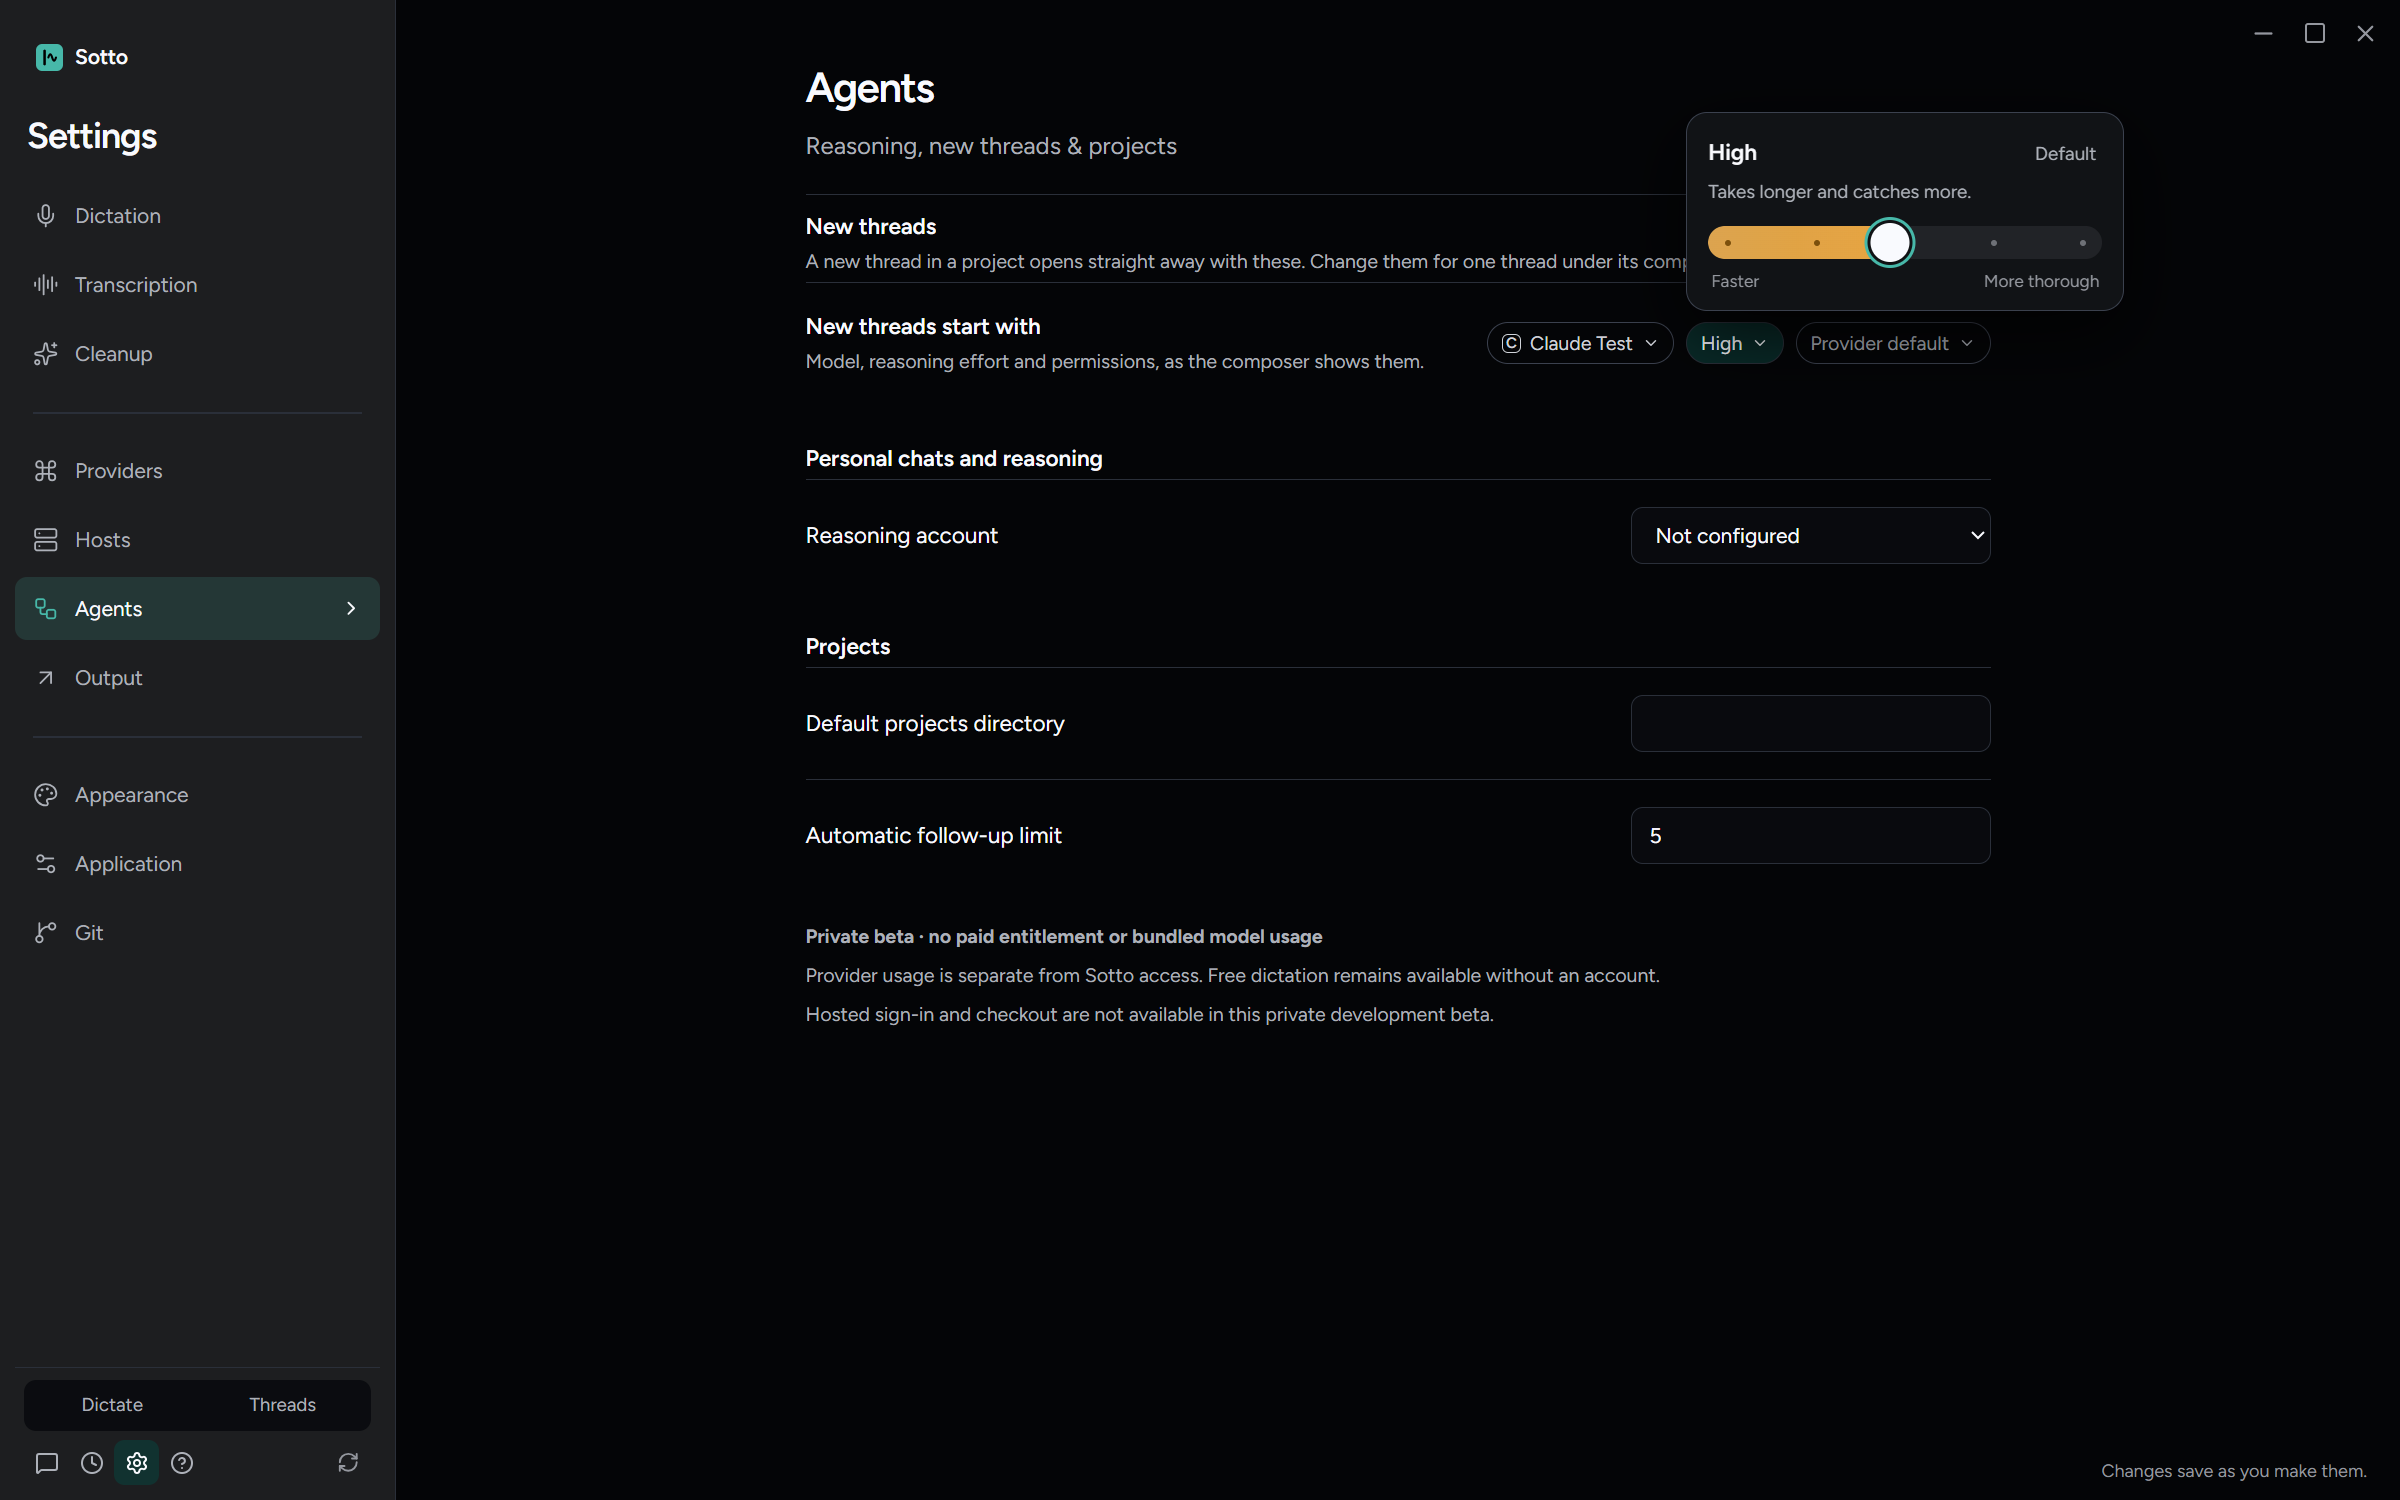
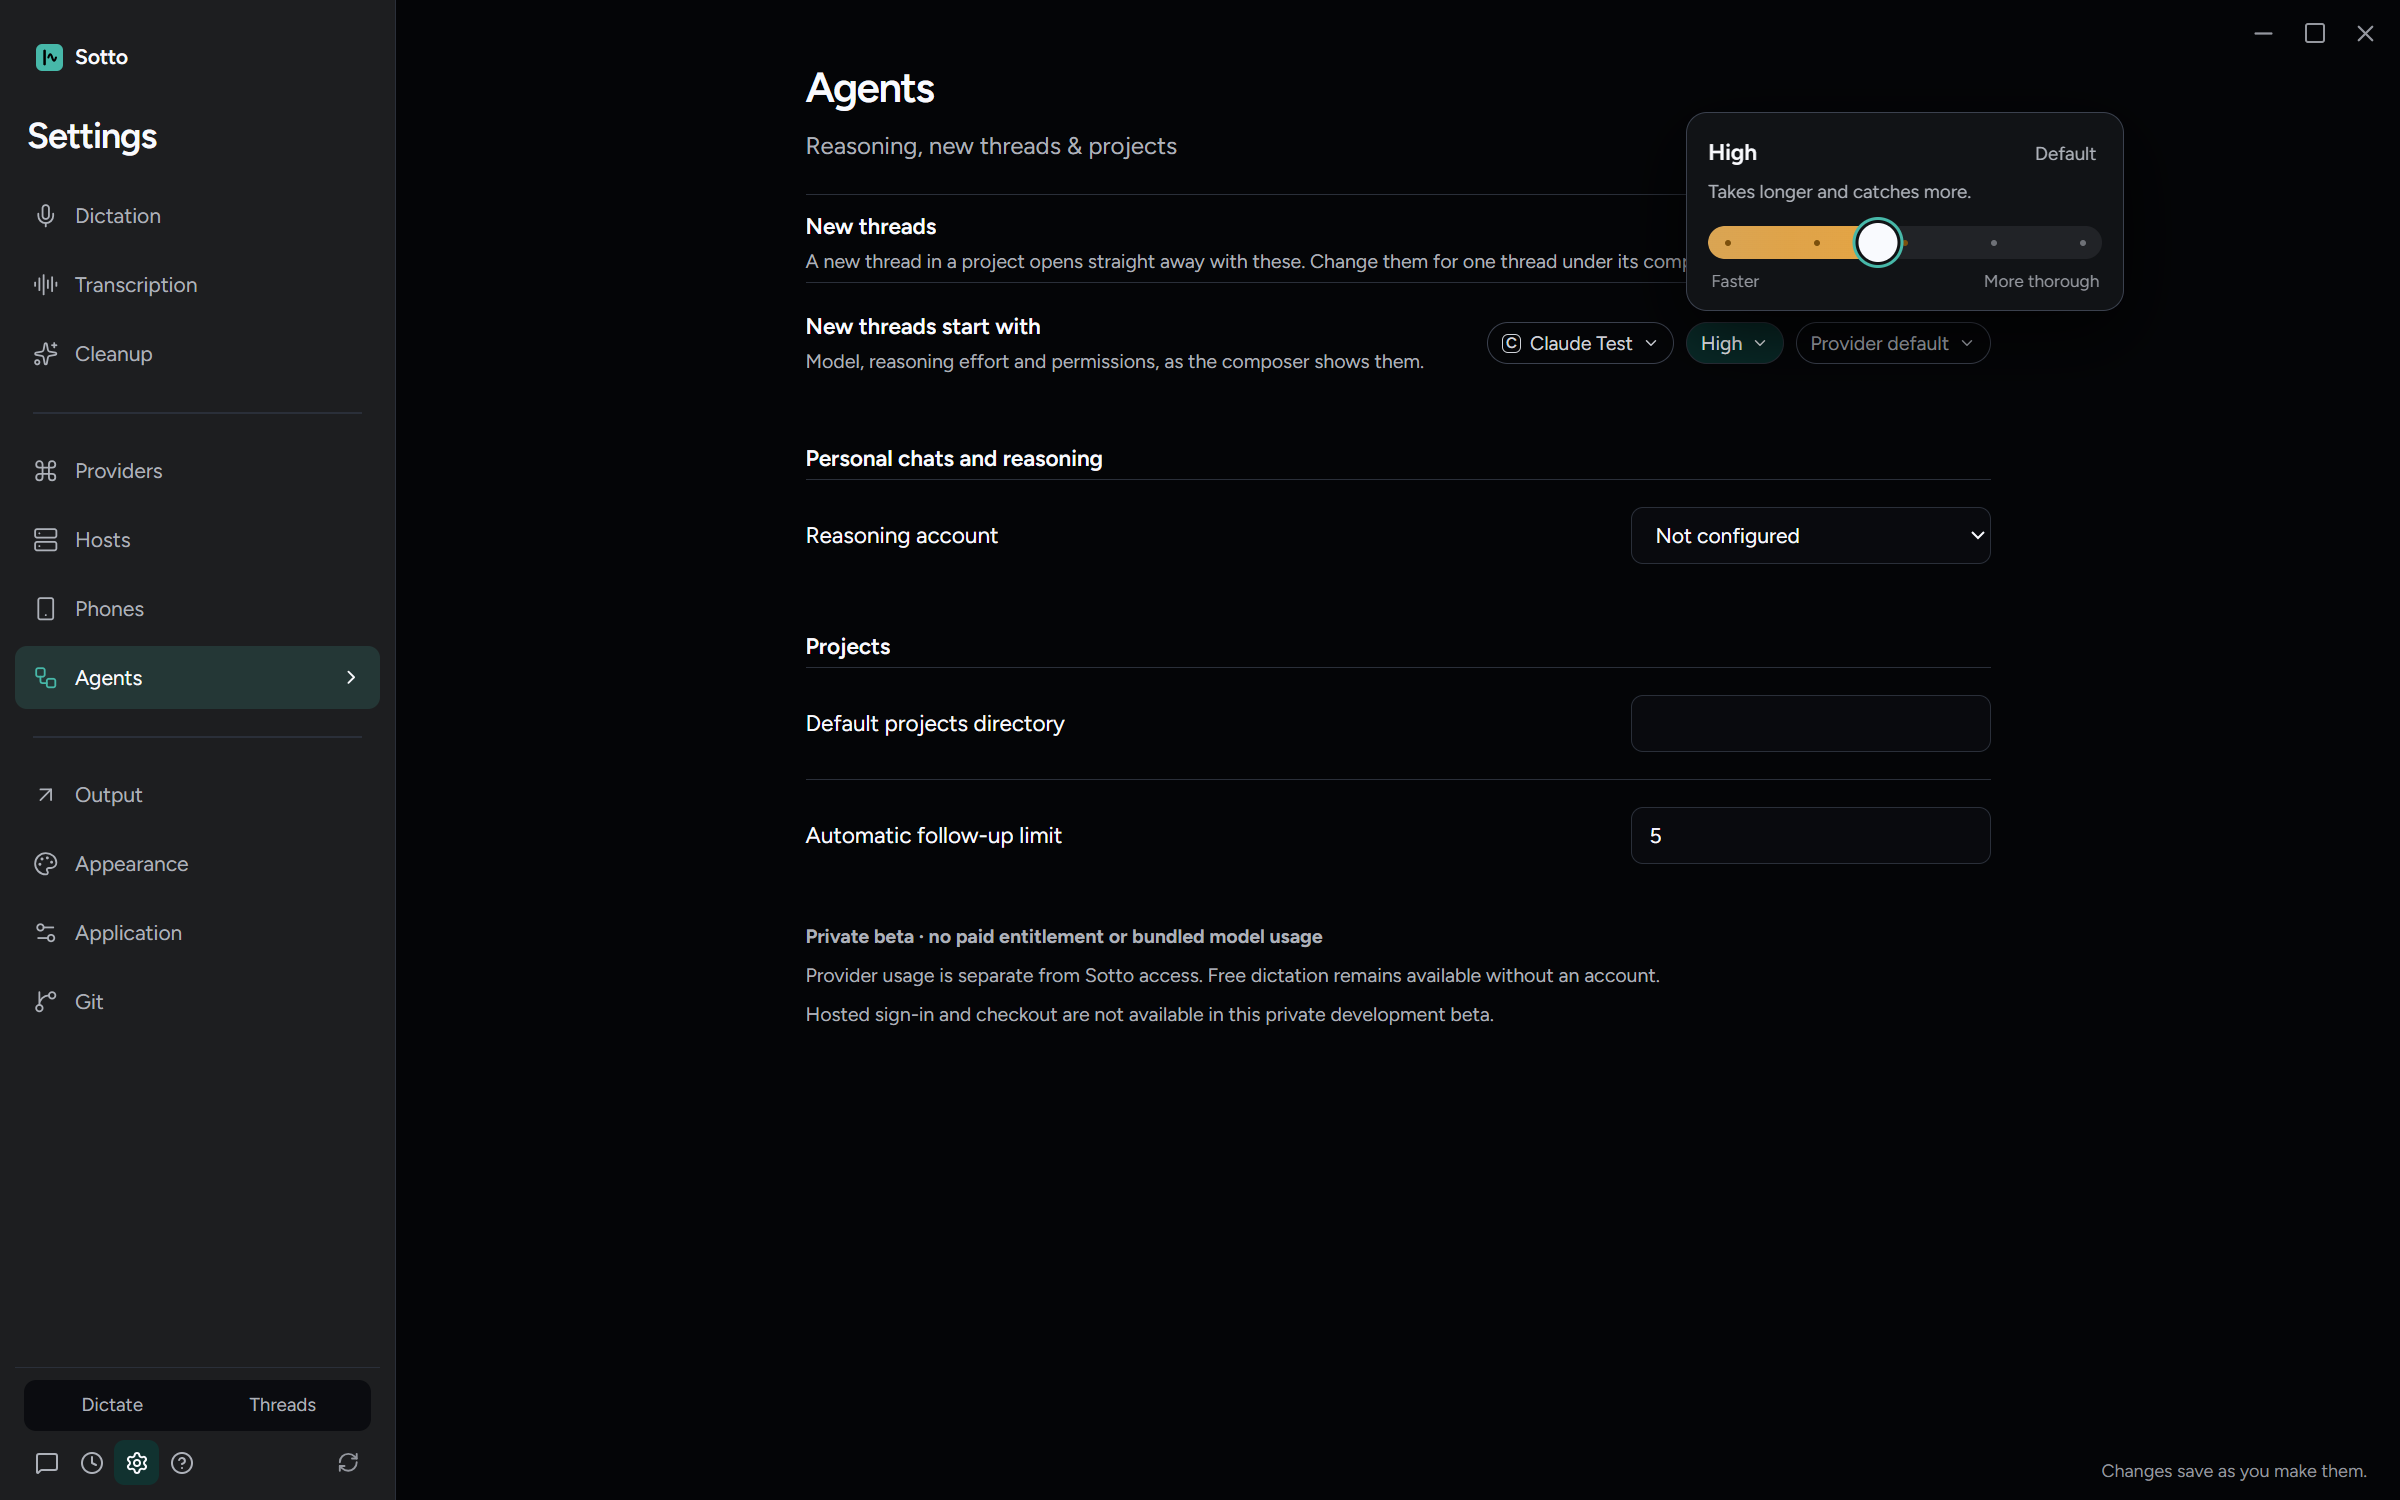
Keep unsettled option changes out of empty-thread reuse
Decline reuse while a setting is pending or unconfirmed, and while a saved effort cannot be resolved from the model catalog. Add failing-then-passing coverage for both review findings and correct the guide to describe the conditional reuse rule.

Record the main-baseline host-lock result and refreshed Electron verification after integrating current main.

diff --git a/tests/unit/renderer/unusedNewThread.test.tsx b/tests/unit/renderer/unusedNewThread.test.tsx
@@ -1,6 +1,7 @@
-import { describe, expect, it } from 'vitest'
+import { afterEach, describe, expect, it } from 'vitest'
 import { unusedNewThread } from '../../../src/renderer/src/agents/newThread'
 import { defaultAgentConfiguration, type AgentState, type AgentThread } from '../../../src/shared/agents'
+import { pendingSettingsStore, settingValues } from '../../../src/renderer/src/agents/pendingSettings'
 
 const project = { id: 'project', title: 'Project', path: 'C:/project' }
 const thread = (patch: Partial<AgentThread>): AgentThread => ({ id: 'thread', projectId: project.id, title: 'New thread', titleSource: 'default',
@@ -10,6 +11,7 @@ const state = (threads: AgentThread[]): AgentState => ({
     models: [{ id: 'codex:model', name: 'Model', provider: 'Codex', providerId: 'codex', ready: true }] } } as unknown as AgentState)
 
 /** Pressing New thread twice, or by accident, should not leave empty threads behind (#347). */
+afterEach(() => pendingSettingsStore.clear())
 describe('an unused new thread', () => {
   it('is found when the project already has one that was never used', () => {
     expect(unusedNewThread(state([thread({})]), project)?.id).toBe('thread')
@@ -31,6 +33,29 @@ describe('an unused new thread', () => {
     expect(unusedNewThread(current, project)).toBeUndefined()
     current.configuration.newThreadReasoningEffort = 'low'
     expect(unusedNewThread(current, project)?.id).toBe('thread')
+  })
+
+  it.each(['model', 'effort'] as const)('does not reuse a thread while its %s change is in flight', kind => {
+    const candidate = thread({ reasoningEffort: 'low' })
+    const current = state([candidate])
+    pendingSettingsStore.press(candidate.id, kind, kind === 'model' ? 'codex:other' : 'high',
+      kind === 'model' ? { modelId: 'codex:other' } : { reasoningEffort: 'high' },
+      () => new Promise(() => undefined), settingValues(current, candidate))
+    expect(unusedNewThread(current, project)).toBeUndefined()
+  })
+
+  it.each([{ modelId: 'codex:other' }, { reasoningEffort: 'high' }])('does not reuse a thread with an unconfirmed change: %j', patch => {
+    const current = state([thread({})])
+    current.unconfirmedSettings = [{ threadId: 'thread', ...patch }]
+    expect(unusedNewThread(current, project)).toBeUndefined()
+  })
+
+  it('does not reuse a thread when its saved effort cannot be resolved from the catalog', () => {
+    const current = state([thread({ reasoningEffort: 'low' })])
+    current.configuration.newThreadModelId = 'codex:model'
+    current.configuration.newThreadReasoningEffort = 'high'
+    current.host.models = []
+    expect(unusedNewThread(current, project)).toBeUndefined()
   })
 
   it('is not a thread that has been used, renamed, is running, settled or elsewhere', () => {

diff --git a/src/renderer/src/agents/newThread.ts b/src/renderer/src/agents/newThread.ts
@@ -5,6 +5,7 @@ import { nearestReasoningEffort, resolveNewThreadPermission } from '../../../sha
 import { isThreadClosed, isWorkspaceThreadSettled } from '../../../shared/threadActivity'
 import type { AgentConnection } from './AgentContext'
 import { draftThread, UNCONFIRMED_CREATION } from './draftThreads'
+import { pendingSettingsStore, unconfirmedKinds } from './pendingSettings'
 
 /** A creation on its way, handed over the moment it is issued so the thread can be shown without waiting. */
 export interface ThreadCreationStart {
@@ -41,8 +42,10 @@ export async function projectWorkingCopy(state: AgentState, project: AgentProjec
  */
 export function unusedNewThread(state: AgentState, project: AgentProject): AgentThread | undefined {
   const { modelId, selectedModel, reasoningEffort, permission } = newThreadOptions(state, project)
+  if (state.configuration.newThreadReasoningEffort && reasoningEffort === undefined) return undefined
   return state.host.threads.find(thread => thread.projectId === project.id && thread.titleSource === 'default' && thread.status === 'idle'
     && !isThreadClosed(thread) && !isWorkspaceThreadSettled(thread, project)
+    && Object.keys(pendingSettingsStore.view(thread.id).pending).length === 0 && unconfirmedKinds(state, thread.id).size === 0
     && thread.modelId === modelId && (reasoningEffort === undefined || (thread.reasoningEffort ?? selectedModel?.defaultReasoningEffort) === reasoningEffort)
     && (permission.runtimeMode === undefined || thread.runtimeMode === permission.runtimeMode)
     && (permission.providerMode === undefined || thread.providerMode === permission.providerMode)

diff --git a/docs/guide.md b/docs/guide.md
@@ -21,9 +21,9 @@ The [README](../README.md) says what Sotto is and how to install it. This guide 
 
 ### Starting a thread
 
-New work starts in Unsettled. Pressing **New thread** can reuse an empty thread only if it is still unsettled and its model and effort match the current defaults in Settings. Settled threads and empty threads with older choices stay as they were.
+New work starts in Unsettled. Pressing **New thread** can reuse an empty thread only if it is still unsettled, its known model, effort and permission choices match the current defaults in Settings, and no setting change is pending. If the saved effort cannot be resolved from the model catalog, a new thread opens instead. Settled threads and empty threads with older choices stay as they were.
 
-A thread in a project opens at once, named "New thread" and ready for your first message: the pen beside a project row, the empty Threads page's own button, and choosing a project from the sidebar's top **New thread** button (or **Ctrl+Shift+N**, **Cmd+Shift+N** on a Mac) all open one this way. Only the top button and the shortcut with no thread focused ask which project first; the pen and the empty page's button already know it. The shortcut opens a thread in the focused pane's project, or asks which project when none is focused; it does nothing while a dialog is open or a terminal has focus. If the project already has a new thread you never wrote in, it takes you back to that one instead of opening another. A creation the provider refuses says why where the sidebar shows other such errors, and nothing else is lost.
+A thread in a project opens at once, named "New thread" and ready for your first message: the pen beside a project row, the empty Threads page's own button, and choosing a project from the sidebar's top **New thread** button (or **Ctrl+Shift+N**, **Cmd+Shift+N** on a Mac) all open one this way. Only the top button and the shortcut with no thread focused ask which project first; the pen and the empty page's button already know it. The shortcut opens a thread in the focused pane's project, or asks which project when none is focused; it does nothing while a dialog is open or a terminal has focus. If the project already has an unused thread that meets those reuse conditions, it takes you back to that one instead of opening another. A creation the provider refuses says why where the sidebar shows other such errors, and nothing else is lost.
 
 A new thread starts on **New threads start with** in **Settings → Agents**: a model, a reasoning effort and a permission mode, the same chips the composer itself shows. Change any of them for one thread from its own composer once it is open; the setting only chooses what a thread starts on. A model or provider that does not offer the chosen effort or permission starts on the nearest one it does — the closest safer permission mode, and the effort at the same position among the levels offered — and Settings says so under the row when that applies to the model chosen there. A provider with its own permission profiles, such as Devin, always starts on its first profile. Personal chats and the coordinator keep their own reasoning account, model and effort, under their own heading in the same page.
 

diff --git a/docs/verification/2026-09-27-new-thread-defaults.md b/docs/verification/2026-09-27-new-thread-defaults.md
@@ -32,8 +32,14 @@ Standards: existing theme tokens and lifecycle helpers retained; no permission g
 
 Spec: new work is unsettled; reused empty work must match the current default model and known effort; managed creation uses the same model setting; Settings effort remains visible and editable. Existing settled threads are preserved.
 
+Independent review of PR #433 found two additional reuse cases: pending or unconfirmed model/effort changes could land after reuse, and a missing catalog could leave a saved effort unresolved. Five regression cases failed before the follow-up fix; the four focused files then passed all 41 tests. Reuse now declines both cases. The guide's older unconditional reuse sentence was corrected too. The repeated CSS exclusion across the two existing Settings scopes was retained rather than introducing a broader text-field refactor.
+
+After rebasing onto main and applying the review fixes, typecheck, lint and build passed again. The three related Electron specs ran together with all six tests passing. The retained screenshots were refreshed to match the current app, including the Phones navigation entry already on main.
+
 Passed: `npm run typecheck`, `npm run lint`, `npm run notices:verify` (174 components), and `npm run build`. The four focused unit files passed (35 tests); after adding the managed regression, the two affected files passed (24 tests). The two new Electron journeys passed three consecutive runs (six tests), and the Settings journey passed again with track-click coverage. All three existing effort-picker tests and the settled-folder test passed.
 
 The final `npm test -- --maxWorkers=2` run finished with 5,740 passed, 128 skipped and one failed test (437 passed files, 35 skipped, one failed). The failure was `tests/unit/main/hostLock.test.ts:112`, "gives the folder to exactly one of three hosts started together over a crashed lock": no contender acquired the lock where one was expected. `npx vitest run tests/unit/main/hostLock.test.ts --maxWorkers=2` then passed all 16 tests in isolation. Both that test and `src/host/lock.ts` are unchanged from HEAD. The failure is intermittent and unresolved; the full gate is not green.
 
-macOS and live provider behavior were not exercised; this change is in renderer selection and styling. The implementation is local and has not been installed or released.
+The same host-lock file was also run on main at `53bb7910859ac6989f8fc71fd58204e44aaabeef`, where all 16 tests passed. The failure was not reproduced on that baseline; unchanged files and a passing isolated rerun do not prove its cause. PR CI records the full gate for the published revision.
+
+macOS and live provider behavior were not exercised locally; this change is in renderer selection and styling. The implementation has not been installed or released.

diff --git a/README.md b/README.md
@@ -30,7 +30,7 @@ Sotto runs the Claude Code, Codex, Grok Build and Devin clients you already have
 
 Thread drafts save automatically while you type, including while other threads are working.
 
-New threads open in Unsettled with the model and effort saved in Settings → Agents. An existing empty thread is reused only while it is unsettled and still matches those defaults.
+New threads open in Unsettled with the defaults saved in Settings → Agents. An existing empty thread is reused only while it is unsettled, its known model, effort and permission choices match those defaults, and no setting change is pending.
 
 ## Install
 
